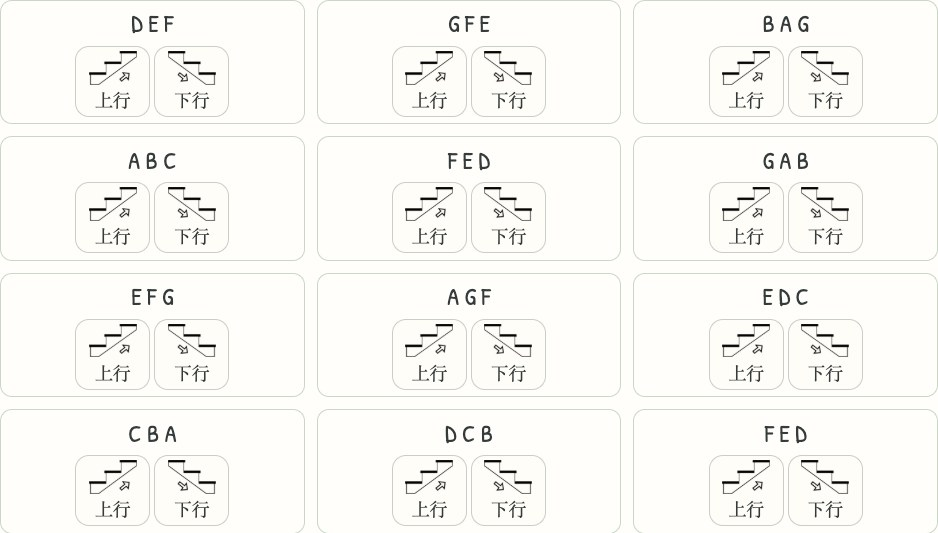
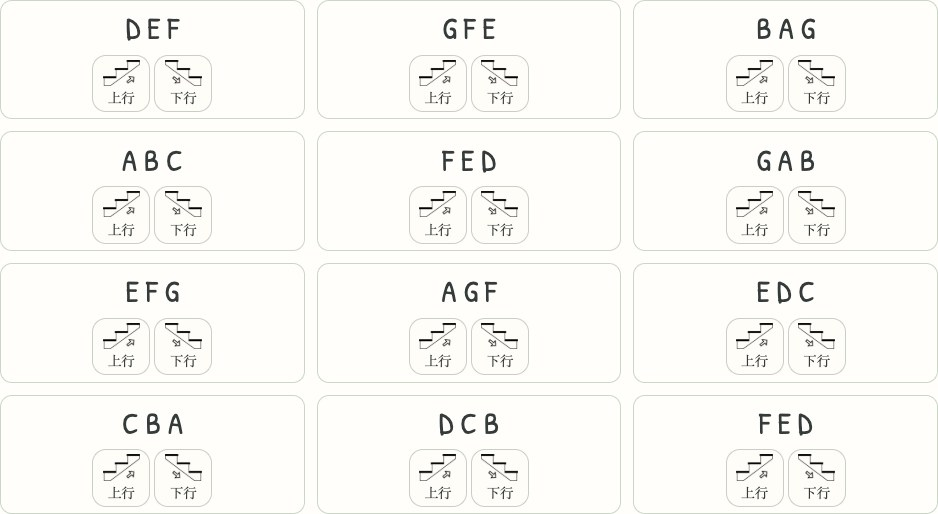
调整树叶圆点连线与台阶题字号

diff --git a/pitch_direction.css b/pitch_direction.css
@@ -18,16 +18,44 @@
   position: relative;
   isolation: isolate;
   display: grid;
-  grid-template-columns: minmax(0, 1fr) minmax(0, .65fr);
-  gap: .5rem clamp(18px, 10vw, 140px);
+  grid-template-columns: max-content minmax(0, 1fr);
+  gap: .5rem clamp(8px, 16vw - 35px, 200px);
   align-items: stretch;
 }
 .direction-controls { display: flex; gap: .25rem; align-items: center; }
-.leaf-question .direction-controls { flex-wrap: wrap; height: 100%; }
-.leaf-match { margin-inline-start: auto; }
-.leaf-clear { min-width: 44px; }
+.leaf-question .direction-controls { height: 100%; gap: 0; }
+.leaf-option { display: flex; align-items: center; }
 #activity-board button { min-height: 44px; padding: .25rem .4rem; margin: 0; }
-#activity-board .leaf-match { margin-inline-start: auto; }
+#activity-board .leaf-dot {
+  display: grid;
+  place-items: center;
+  flex: 0 0 44px;
+  width: 44px;
+  padding: 0;
+  border: 0;
+  background: transparent;
+  box-shadow: none;
+}
+.leaf-dot::before {
+  content: "";
+  width: 12px;
+  height: 12px;
+  border: 2px solid #355e49;
+  border-radius: 50%;
+  background: white;
+}
+.leaf-dot.used::before { background: #355e49; }
+.leaf-dot[aria-pressed="true"]::before {
+  background: #ffc75c;
+  box-shadow: 0 0 0 3px #805b15;
+}
+#activity-board .leaf-clear {
+  min-width: 44px;
+  border: 0;
+  background: transparent;
+  box-shadow: none;
+  order: -1;
+}
 .leaf-lines {
   position: absolute;
   inset: 0;
@@ -42,19 +70,22 @@
   display: flex;
   align-items: end;
   justify-content: center;
-  height: 56px;
+  height: 76px;
+  width: min(100%, 140px);
+  min-width: 0;
+  gap: 2px;
 }
 .leaf-contour img {
   width: min(30%, 34px);
   height: auto;
-  margin-bottom: calc(var(--height) * 9px);
+  margin-bottom: calc(var(--height) * 19px);
 }
 .stair-grid {
   display: grid;
   grid-template-columns: repeat(auto-fit, minmax(min(100%, 235px), 1fr));
   gap: .75rem;
 }
-.stair-question, .leaf-question {
+.stair-question {
   border: 1px solid #cad7c7;
   border-radius: .75rem;
   padding: .4rem;
@@ -65,22 +96,19 @@
   justify-items: center;
 }
 .stair-choice {
-  min-width: 75px;
+  min-width: 58px;
+  font-size: .85rem;
   display: grid;
   justify-items: center;
   gap: .15rem;
 }
-.stair-choice img { width: 48px; height: auto; }
-#activity-board button[aria-pressed="true"] {
+.stair-choice img { width: 37px; height: auto; }
+#activity-board .stair-choice[aria-pressed="true"] {
   border-color: #805b15;
   background: #ffe79a;
   box-shadow: inset 0 0 0 1px #805b15;
 }
-#activity-board .leaf-choice.used:not([aria-pressed="true"]) { background: #d8ead7; }
-@media (max-width: 420px) {
-  .leaf-question .direction-notes { flex-basis: 100%; text-align: center; }
-  #activity-board .leaf-match { flex: 1; }
-}
+.stair-question .direction-notes { font-size: clamp(1.4rem, 4vw, 1.9rem); }
 .direction-example {
   display: flex;
   flex-wrap: wrap;
@@ -88,4 +116,4 @@
   gap: .5rem;
 }
 .direction-example > img { width: 55px; height: auto; }
-.direction-example .leaf-contour { width: 80px; height: 37px; }
+.direction-example .leaf-contour { width: 80px; height: 45px; }

diff --git a/pitch-direction.html b/pitch-direction.html
@@ -41,9 +41,9 @@
         <p class="subtitle">Match note names to leaves</p>
       </div>
       <section class="instructions">
-        <p>从左到右读音名。先点树叶组，再点走势相同的音名组。</p>
+        <p>从左到右读音名。点音名旁和对应树叶旁的圆点，把它们连起来。</p>
         <p lang="en">
-          Read the note names from left to right. Select a leaf pattern, then its matching notes.
+          Read the note names from left to right. Tap the dots beside the notes and the matching leaf pattern to connect them.
         </p>
         <button id="speak">▶ 听题干</button>
         <p id="speech-status" role="status"></p>

diff --git a/AGENTS.md b/AGENTS.md
@@ -215,10 +215,13 @@ page and its board preview in the catalog and runtime package.
 `pitch-direction.html` opens P-010. `?exercise=stairs` opens P-011 from its
 own catalog card. Read the letter cycle in both directions, including G to A
 when ascending and A to G when descending. P-010 keeps all seven source
-prompts and contour patterns. Tap a leaf group, then its matching prompt to
-draw a line. Accept either descending group for FED or BAG, with each group
+prompts and contour patterns. Tap the dots beside the note names and leaf group in either order to
+draw a line. Keep the groups unframed and maintain visible height differences
+between adjacent levels. Accept either descending group for FED or BAG, with each group
 available for one match. Reassigning a group clears its old connection.
 P-011 keeps the twelve source prompts, including both instances of FED.
 Select or replace the direction directly using the original stair artwork.
+Keep the note letters visually larger than the stair controls and keep
+answer targets at least 44 CSS pixels.
 Both have session-only answers, shared profiles and speech, graduated
 assistance, and completion celebrations. Keep the original masters intact.

diff --git a/docs/progress_tracker.md b/docs/progress_tracker.md
@@ -21,6 +21,18 @@ The Studio guide, overview, development guide, and asset provenance record
 the change. The responsive, worksheet, games and workspace guides were
 reviewed, and their existing procedures still apply. Publication is pending.
 
+### Layout revision, November 26, 2026
+
+P-010 removes the group borders and anchors each line at the centers of the
+two small dots. Either endpoint can be selected first. Leaf tiers are separated
+by 19 CSS pixels. P-011 enlarges the letters and reduces stair option width
+and artwork size. Both use at least 44 CSS pixel hit targets.
+Updated both previews, the activity guide, and the development checks.
+Reviewed the Studio overview and responsive and parent guides. Their current
+scope and procedures still apply. Package `87c34cfec1d1` passed the two
+activity flows, catalog suite, 41 unit tests, and 138 responsive checks.
+Reviewed the phone captures and both catalog previews. Local only.
+
 ## Under the Sea fixed-do edition, November 26, 2026
 
 “唱名版海底世界” is a separate catalog entry that reuses the P-007

diff --git a/docs/development.md b/docs/development.md
@@ -224,7 +224,8 @@ Run `BASE_URL=<runtime-directory-url> node tests/sea_neighbors_browser.mjs` for 
 ## P-010 and P-011 verification
 
 Run `BASE_URL=<runtime-directory-url> node tests/pitch_direction_browser.mjs`
-for both catalog links, 320px touch targets, keyboard matching, blank and wrong
+for both catalog links, 320px touch targets, both dot-selection orders,
+leaf height difference, keyboard matching, blank and wrong
 submissions, third- and sixth-error hints, leaf reassignment and erasing,
 all correct answers, celebration, and reset. Both catalog entries also run
 in the full responsive matrix. Use `pitch-direction` and `pitch-stairs`
